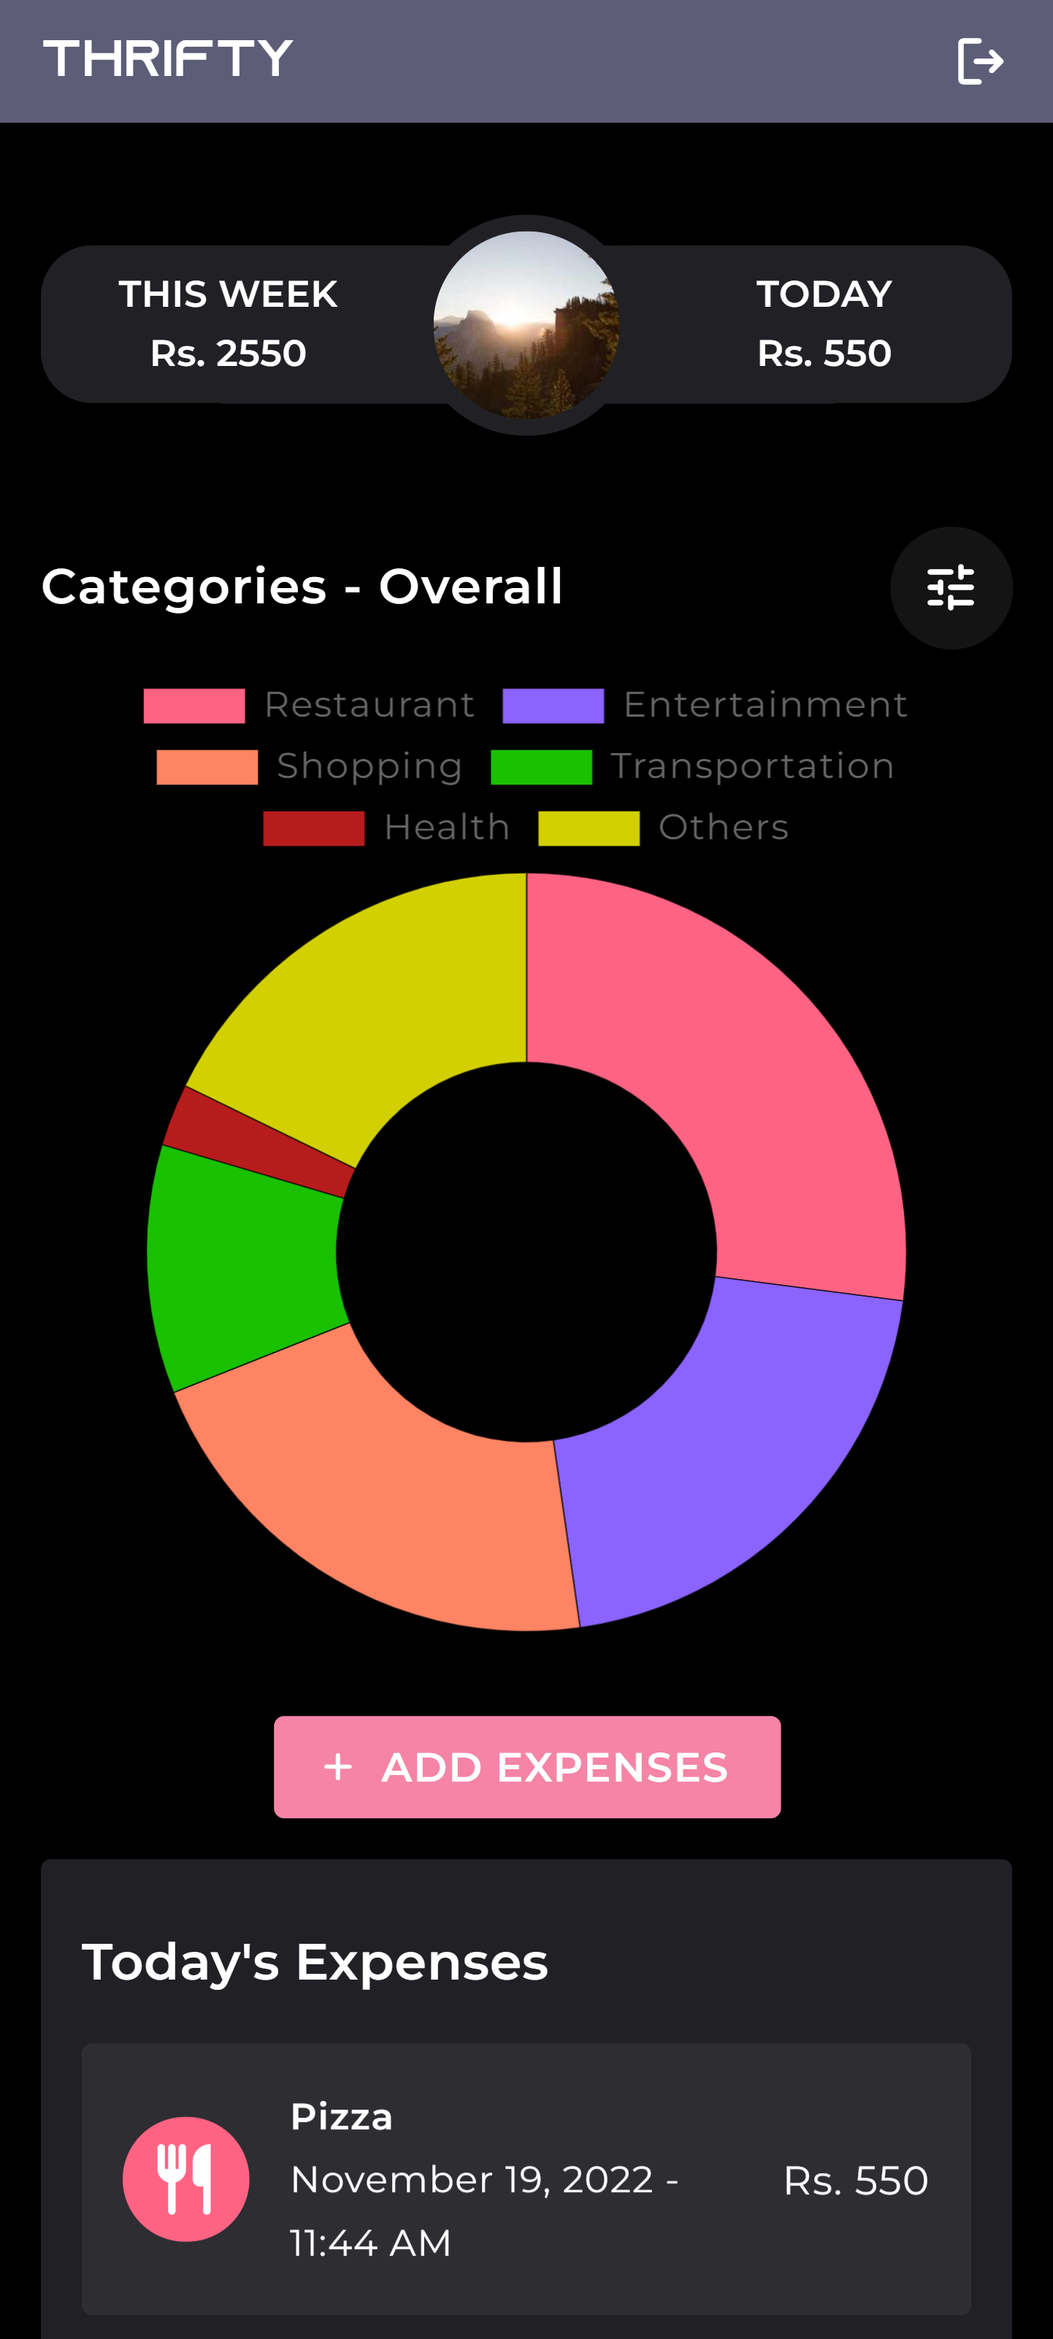
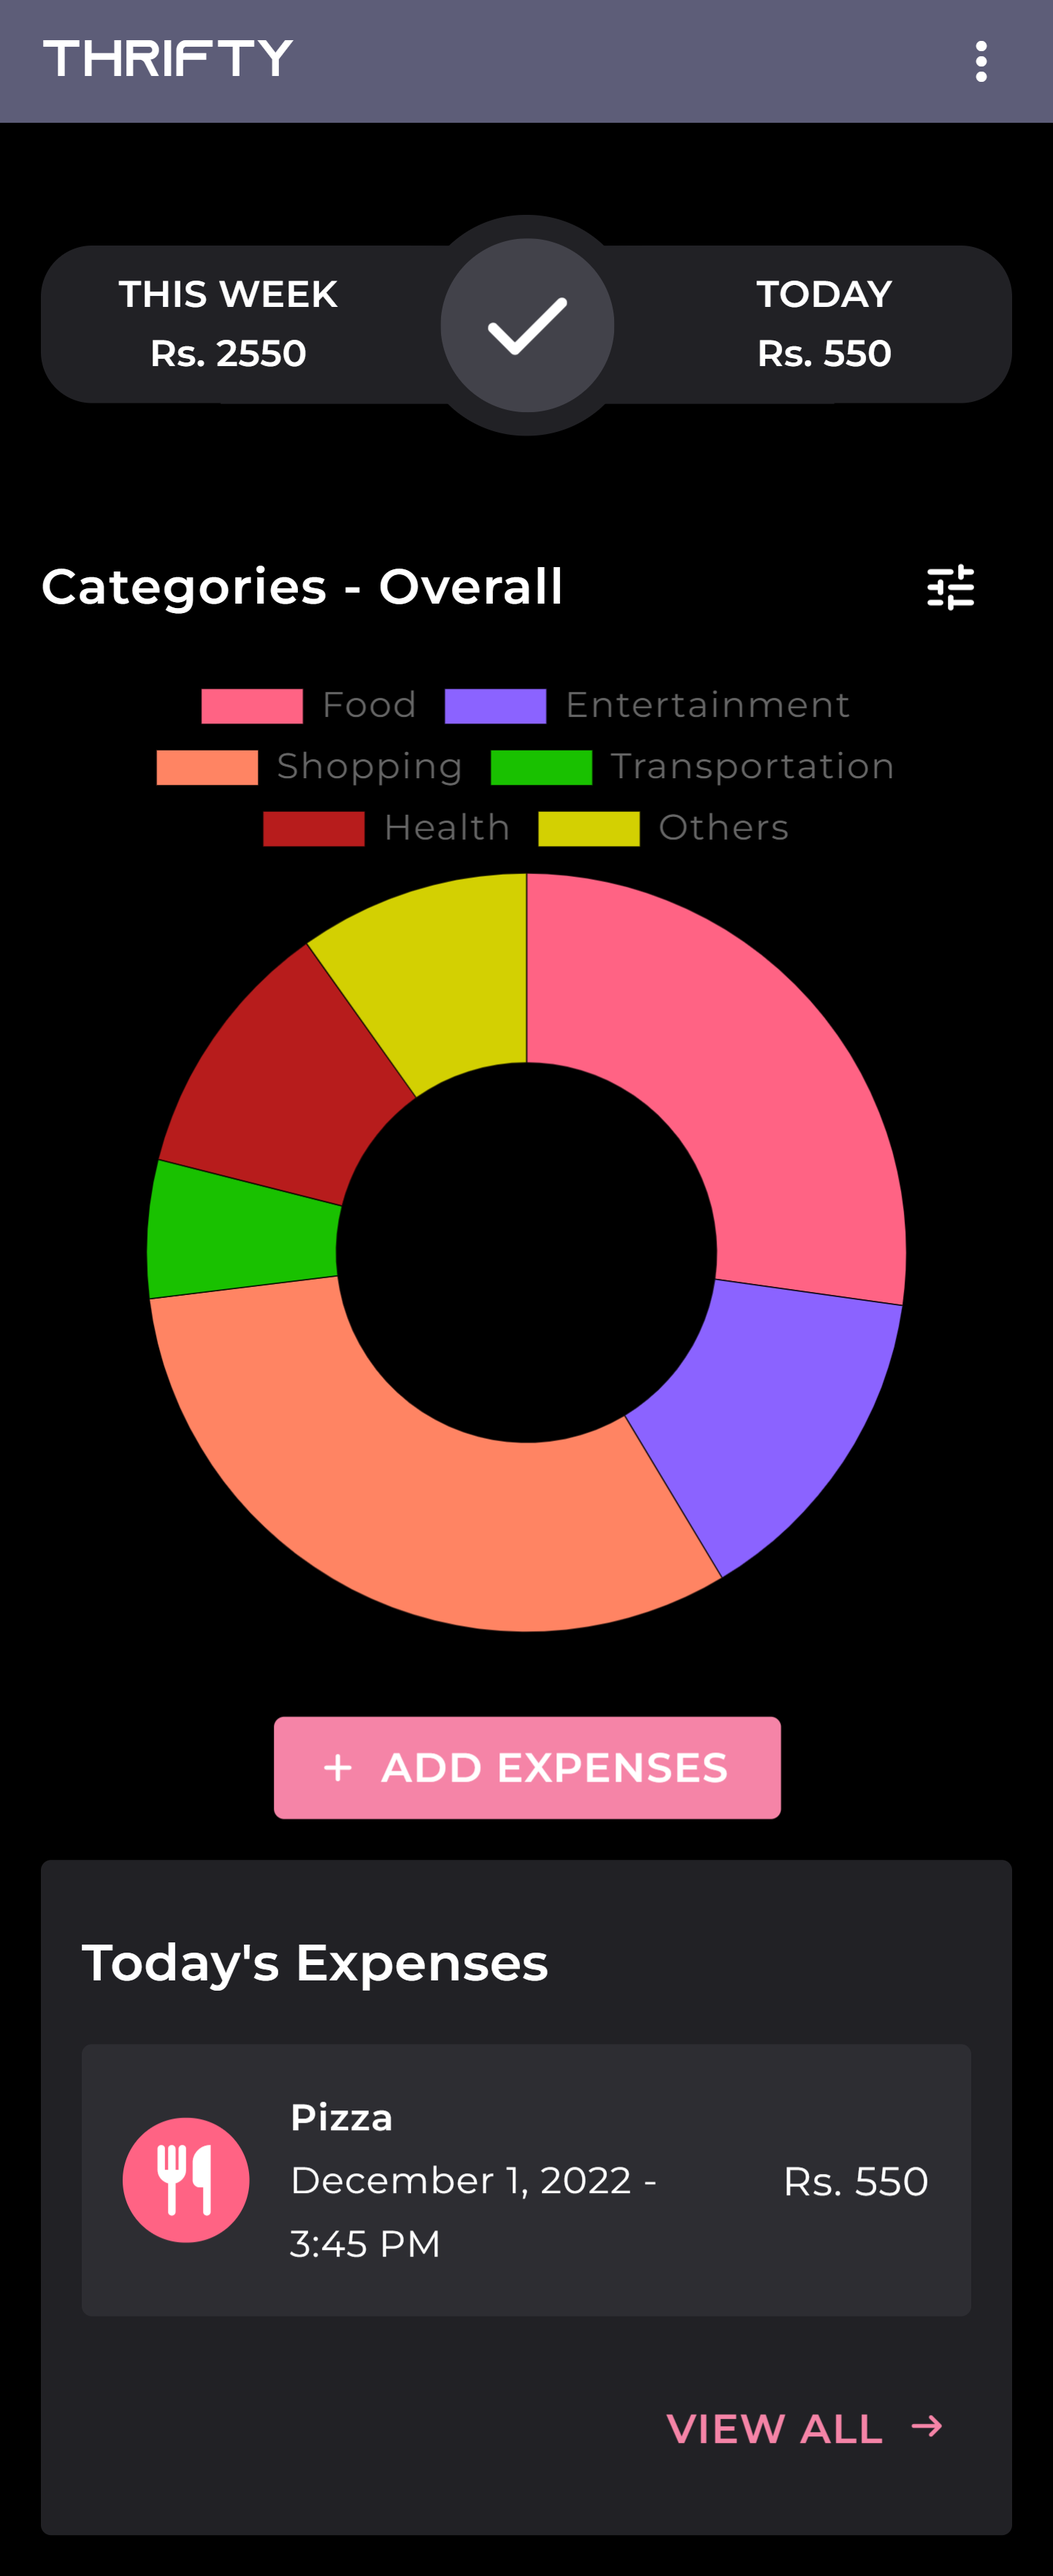
Title / Description search & minor fixes
- Changed "Restaurant" to "Food"
- Added diagrams
- DatePicker now has dateOnly mode
--- Date Range filter has dateOnly DatePicker now
- Limited homepage to 5 expenses of today
- Updated landing page screenshots

diff --git a/web/src/pages/dashboard/history/HistoryFilters.svelte b/web/src/pages/dashboard/history/HistoryFilters.svelte
@@ -6,6 +6,9 @@
     import FormField from "@smui/form-field";
     import DatePicker from "@/lib/DatePicker.svelte";
     import { getContext } from "svelte";
+    import Textfield from "@smui/textfield";
+    import Icon from "@smui/textfield/icon";
+    import HelperText from "@smui/textfield/helper-text";
 
     const snackbar = getContext("snackbar");
     const configDefault = {
@@ -20,7 +23,8 @@
                     enabled: false,
                     timestamp: null
                 }
-            }
+            },
+            textFilter: ""
         },
         sort: {
             by: "timestamp",
@@ -62,7 +66,14 @@
             params += `timestamp_start=${filters.date.from.timestamp}&`;
         }
         if (filters.date.to.enabled) {
-            params += `timestamp_end=${filters.date.to.timestamp}&`;
+            // Add 1 day so the selected date is also included
+            const date = new Date(filters.date.to.timestamp);
+            date.setDate(date.getDate() + 1);
+            params += `timestamp_end=${date.getTime()}&`;
+        }
+
+        if (filters.textFilter) {
+            params += `text_filter=${filters.textFilter}&`;
         }
 
         return params;
@@ -76,15 +87,38 @@
 
 <div class="type" style="margin-top: 0;">
     <h4>Filters</h4>
+    <div class="option-container">
+        <b>Title / Description:</b>
+        <br />
+        <div class="input-container">
+            <Textfield
+                bind:value={config.filters.textFilter}
+                input$pattern={"[A-Za-z0-9\\s]{0,500}"}
+                input$maxlength={500}
+                input$title="Numbers, spaces and letters only. Maximum length: 500"
+                label="Query"
+                variant="outlined"
+            >
+                <Icon class="material-symbols-rounded" slot="leadingIcon">search</Icon>
+                <HelperText validationMsg slot="helper">Invalid characters.</HelperText>
+            </Textfield>
+        </div>
+    </div>
     <div class="option-container date">
-        <b>Range:</b>
+        <b>Date Range:</b>
         <br />
         <FormField>
             <Checkbox bind:checked={config.filters.date.from.enabled} />
             <span slot="label">From</span>
         </FormField>
         {#if config.filters.date.from.enabled}
-            <DatePicker bind:dateTime={config.filters.date.from.timestamp} />
+            <div class="input-container">
+                <DatePicker
+                    bind:dateTime={config.filters.date.from.timestamp}
+                    fullWidth={false}
+                    dateOnly={true}
+                />
+            </div>
         {/if}
     </div>
     <div class="option-container date">
@@ -93,7 +127,13 @@
             <span slot="label">To</span>
         </FormField>
         {#if config.filters.date.to.enabled}
-            <DatePicker bind:dateTime={config.filters.date.to.timestamp} />
+            <div class="input-container">
+                <DatePicker
+                    bind:dateTime={config.filters.date.to.timestamp}
+                    fullWidth={false}
+                    dateOnly={true}
+                />
+            </div>
         {/if}
     </div>
     <div class="option-container">
@@ -167,5 +207,10 @@
     .date {
         max-width: 450px;
         margin-bottom: 1em;
+    }
+
+    .input-container {
+        padding-top: 0.5em;
+        padding-left: 0.5em;
     }
 </style>

diff --git a/web/src/lib/DatePicker.svelte b/web/src/lib/DatePicker.svelte
@@ -8,7 +8,7 @@
         if (dateTime !== null) obj.setTime(dateTime);
 
         date.getElement().value = obj.toLocaleDateString("en-CA");
-        time.getElement().value = obj.toTimeString().substring(0, 5);
+        if (!dateOnly) time.getElement().value = obj.toTimeString().substring(0, 5);
         updateTime();
     });
 
@@ -16,15 +16,21 @@
     export let dateTime = null;
     export let disabled = false;
     export let readonly = false;
+    export let dateOnly = false;
+    export let fullWidth = true;
 
     function updateTime() {
-        const timeObj = time.getElement().valueAsDate;
         const dateObj = date.getElement().valueAsDate;
-
-        // Offset in milliseconds
+        dateTime = dateObj.getTime();
         const offsetMS = dateObj.getTimezoneOffset() * 60 * 1000;
+        dateTime += offsetMS;
 
-        dateTime = dateObj.getTime() + timeObj.getTime() + offsetMS;
+        if (!dateOnly) {
+            const timeObj = time.getElement().valueAsDate;
+
+            // Offset in milliseconds
+            dateTime += timeObj.getTime();
+        }
     }
 
     function showPicker(e) {
@@ -51,20 +57,26 @@
         label="Date"
         type="date"
         variant="outlined"
-        style="width: 55%;"
+        style={fullWidth ? "width: 55%;" : ""}
         required
     />
-    <Textfield
-        bind:value={timeText}
-        bind:input={time}
-        {disabled}
-        {input$readonly}
-        on:change={updateTime}
-        on:click$preventDefault={showPicker}
-        label="Time"
-        type="time"
-        variant="outlined"
-        style="width: 43%;"
-        required
-    />
+    {#if !dateOnly}
+        <Textfield
+            bind:value={timeText}
+            bind:input={time}
+            {disabled}
+            {input$readonly}
+            on:change={updateTime}
+            on:click$preventDefault={showPicker}
+            label="Time"
+            type="time"
+            variant="outlined"
+            style={fullWidth ? "width: 43%;" : ""}
+            required
+        />
+    {/if}
+    <!-- 
+        <p>{dateTime}</p>
+        <p>{new Date(dateTime)}</p>
+    -->
 </div>

diff --git a/web/src/pages/dashboard/history/ExpenseHistory.svelte b/web/src/pages/dashboard/history/ExpenseHistory.svelte
@@ -1,5 +1,5 @@
 <script>
-    import { onMount } from "svelte";
+    import { getContext, onMount } from "svelte";
     import Expense from "@/lib/Expense.svelte";
     import fetchBackend from "@/lib/backend";
     import { refreshImpl } from "@/pages/dashboard/stores.js";
@@ -13,6 +13,8 @@
     let filter;
     let total;
 
+    const snackbar = getContext("snackbar");
+
     export async function refresh(visible = true) {
         const filterQuery = filter.getFilterParams();
         if (filterQuery === null) return;
@@ -22,12 +24,16 @@
             total = "XXXX";
         }
 
-        const res = await Promise.all([
-            fetchBackend("/expenses/" + filterQuery + filter.getSortParams()),
-            fetchBackend("/expenses/total/" + filterQuery)
-        ]);
-        expenses = await res[0].json();
-        total = await res[1].json();
+        try {
+            const res = await Promise.all([
+                fetchBackend("/expenses/" + filterQuery + filter.getSortParams()),
+                fetchBackend("/expenses/total/" + filterQuery)
+            ]);
+            expenses = await res[0].json();
+            total = await res[1].json();
+        } catch {
+            snackbar("Error processing request. Please try again.");
+        }
     }
 
     // eslint-disable-next-line prefer-const

diff --git a/web/src/pages/dashboard/homepage/Homepage.svelte b/web/src/pages/dashboard/homepage/Homepage.svelte
@@ -45,7 +45,7 @@
             Promise.all([
                 fetchTotal(getThisWeek()),
                 fetchTotal(getToday()),
-                expensesFetch(params(getToday())),
+                expensesFetch(params(getToday()) + "&count=5"),
                 fetchBackend("/settings/weekly_target/"),
                 chart.reloadChart()
             ])

diff --git a/web/src/pages/landing/Landing.svelte b/web/src/pages/landing/Landing.svelte
@@ -14,7 +14,7 @@
                 <Logo />
                 <h1>THRIFTY</h1>
             </div>
-            <p>Keep track of your expenses.</p>
+            <p>TRACK IT. SAVE IT.</p>
 
             <Button variant="raised" style="padding: 25px;" on:click={() => push("/start")}>
                 <Label>Get Started!</Label>

diff --git a/backend/routes/expenses.py b/backend/routes/expenses.py
@@ -1,6 +1,7 @@
 import sqlite3
 from decimal import Decimal
 from typing import Union, Literal
+from pydantic import constr
 from fastapi import Depends, APIRouter, Query
 
 import db.core as db
@@ -33,7 +34,7 @@ def create_expense(expense: UserExpenseEntry, user: User = Depends(get_user)):
         raise db_write_exception
 
 
-def get_expenses_data(user_id, category, timestamp_start, timestamp_end, columns = "*", num_rows = None, group_by_category = False, order_by = "Time DESC"):
+def get_expenses_data(user_id, category, timestamp_start, timestamp_end, columns = "*", num_rows = None, group_by_category = False, order_by = "Time DESC", text_filter = None):
     query = "SELECT %s FROM Expenses WHERE UserID=?" % columns
     values = (user_id,)
 
@@ -51,6 +52,11 @@ def get_expenses_data(user_id, category, timestamp_start, timestamp_end, columns
 
     if group_by_category:
         query += " GROUP BY Category"
+    
+    if text_filter:
+        text_filter = "%" + text_filter + "%"
+        query += " AND (Description LIKE ? OR Title LIKE ?)"
+        values += (text_filter, text_filter,)
 
     query += " ORDER BY " + order_by
 
@@ -73,6 +79,7 @@ def get_expenses(
     count: Union[None, int] = None,
     sort_by: Literal["timestamp", "cost"] = "timestamp",
     order: Literal["asc", "desc"] = "desc",
+    text_filter: Union[None, constr(regex='^[A-Za-z0-9\s]+$', max_length=500)] = None,
     user: User = Depends(get_user)
 ):
     sort = ""
@@ -83,7 +90,7 @@ def get_expenses(
 
     sort += order.upper()
 
-    sql_res = get_expenses_data(user.id, category, timestamp_start, timestamp_end, "*, rowid", count, False, sort)
+    sql_res = get_expenses_data(user.id, category, timestamp_start, timestamp_end, "*, rowid", count, False, sort, text_filter)
     res = []
     for entry in sql_res:
         res.append({
@@ -102,9 +109,10 @@ def get_expenses_total(
     category: Union[None, list[str]] = Query(default=None),
     timestamp_start: Union[None, int] = None,
     timestamp_end: Union[None, int] = None,
+    text_filter: Union[None, constr(regex='^[A-Za-z0-9\s]+$', max_length=500)] = None,
     user: User = Depends(get_user)
 ):
-    sql_res = get_expenses_data(user.id, category, timestamp_start, timestamp_end, "SUM(Cost)", 1)[0][0]
+    sql_res = get_expenses_data(user.id, category, timestamp_start, timestamp_end, "SUM(Cost)", 1, text_filter=text_filter)[0][0]
     sql_res = sql_res or 0
     return Decimal(sql_res)/100
 

diff --git a/README.md b/README.md
@@ -2,9 +2,9 @@
 
 The objectives of our project are:
 
-- Assist users with managing their finances
-- Daily or weekly tracking of expenditure
-- Highlight products or services where the user has spent excess money
+- To assist users with managing their finances
+- To track daily and weekly expenditures
+- To highlight products or services where the user has spent excess money
 
 # Directories
 
